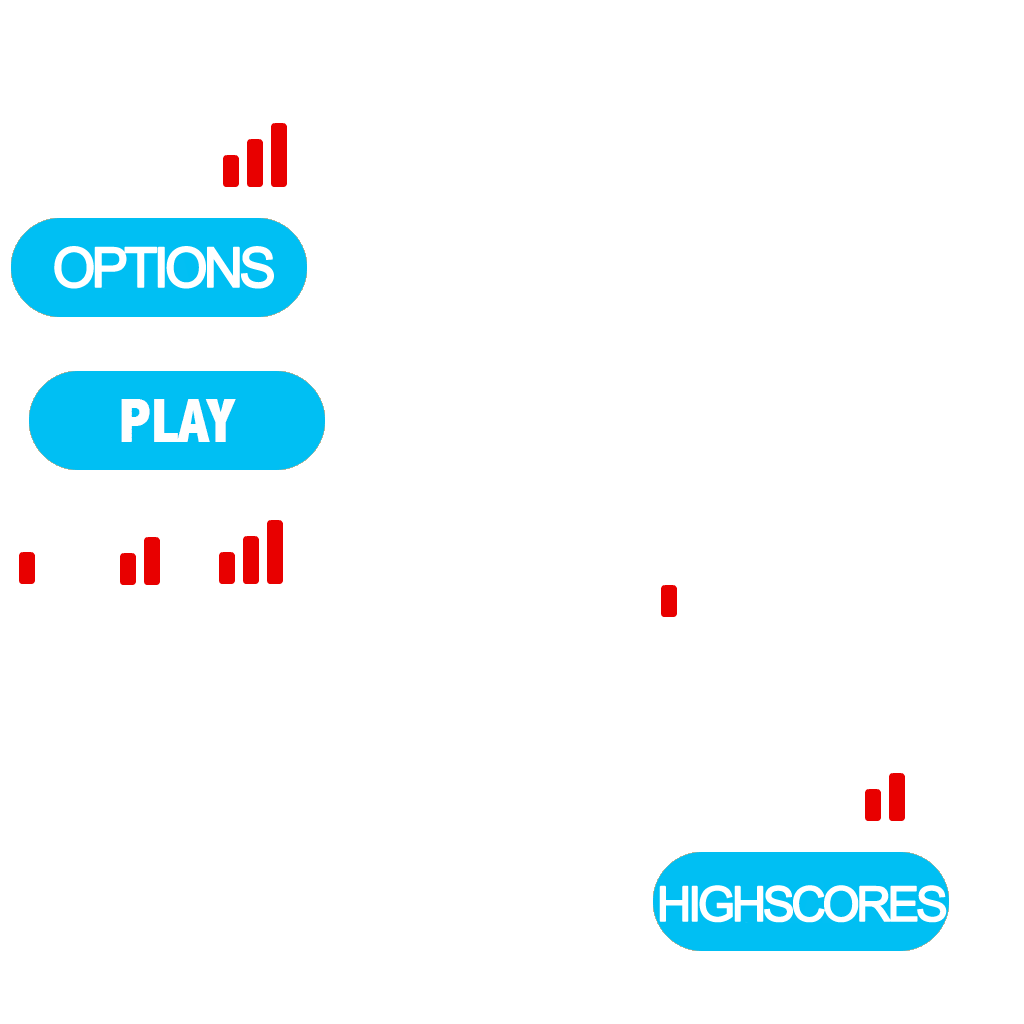
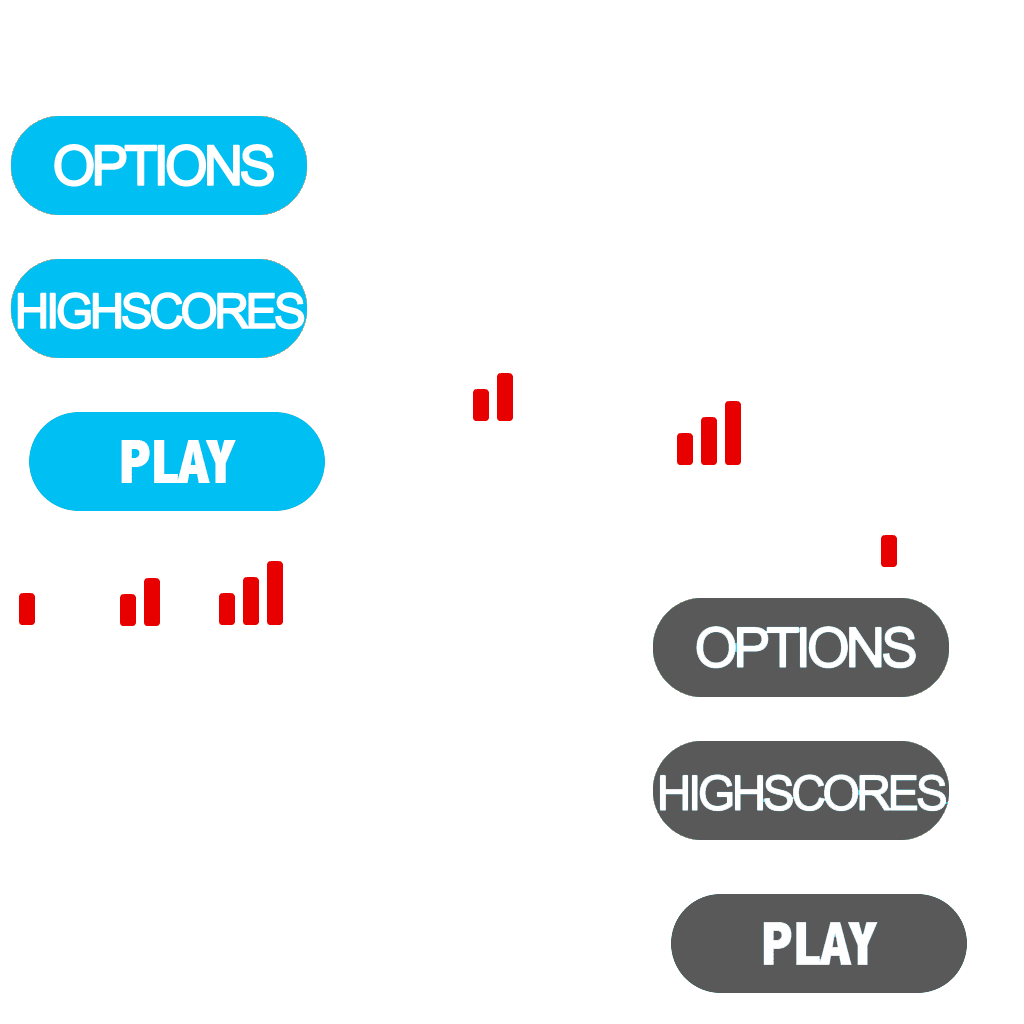
some images added

diff --git a/core/src/com/lpoo/game/States/MenuScreen.java b/core/src/com/lpoo/game/States/MenuScreen.java
@@ -57,16 +57,16 @@ public class MenuScreen extends State {
         TextButton.TextButtonStyle styleScore = new TextButton.TextButtonStyle();
 
         play.up = skin.getDrawable("playBtn");
-        play.down = skin.getDrawable("playBtn");
+        play.down = skin.getDrawable("playBtnDown");
         play.checked = skin.getDrawable("playBtn");
         play.font = font;
 
         styleOptions.up = skin.getDrawable("options");
-        styleOptions.down = skin.getDrawable("options");
+        styleOptions.down = skin.getDrawable("optionsDown");
         styleOptions.font = font;
 
         styleScore.up = skin.getDrawable("highscores");
-        styleScore.down = skin.getDrawable("highscores");
+        styleScore.down = skin.getDrawable("highscoresDown");
         styleScore.font = font;
 
         playBtn = new TextButton("", play);
